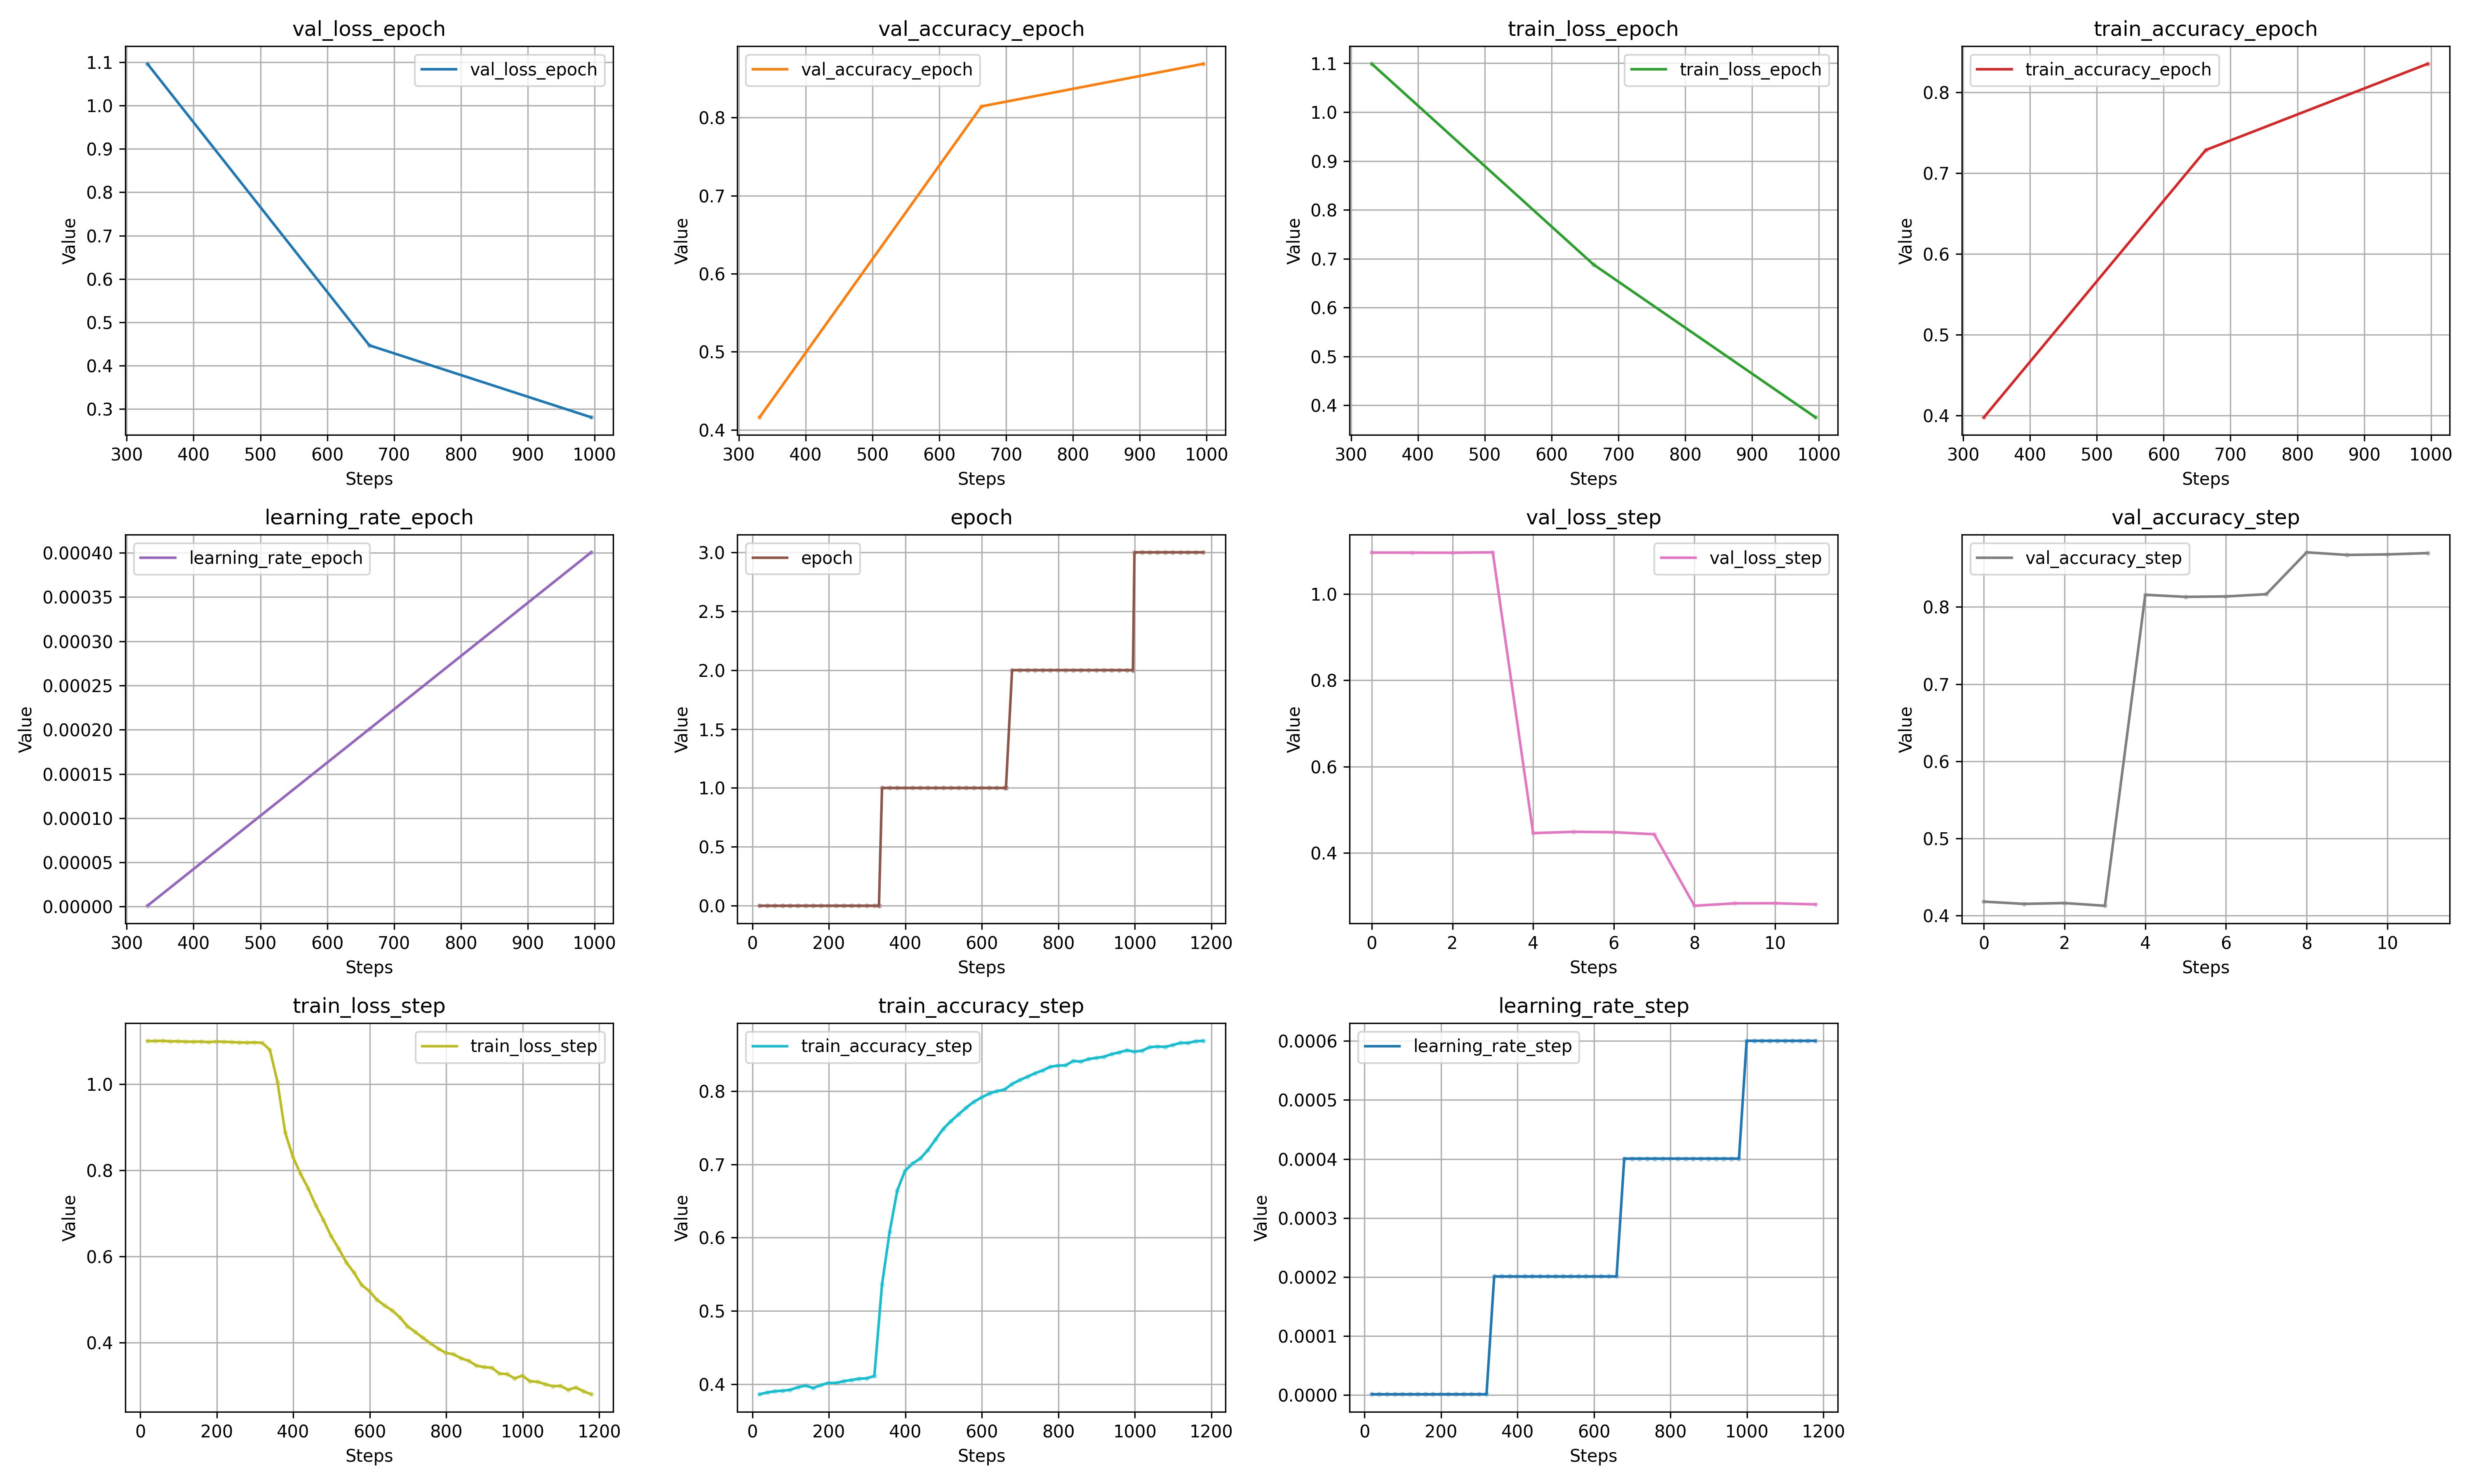
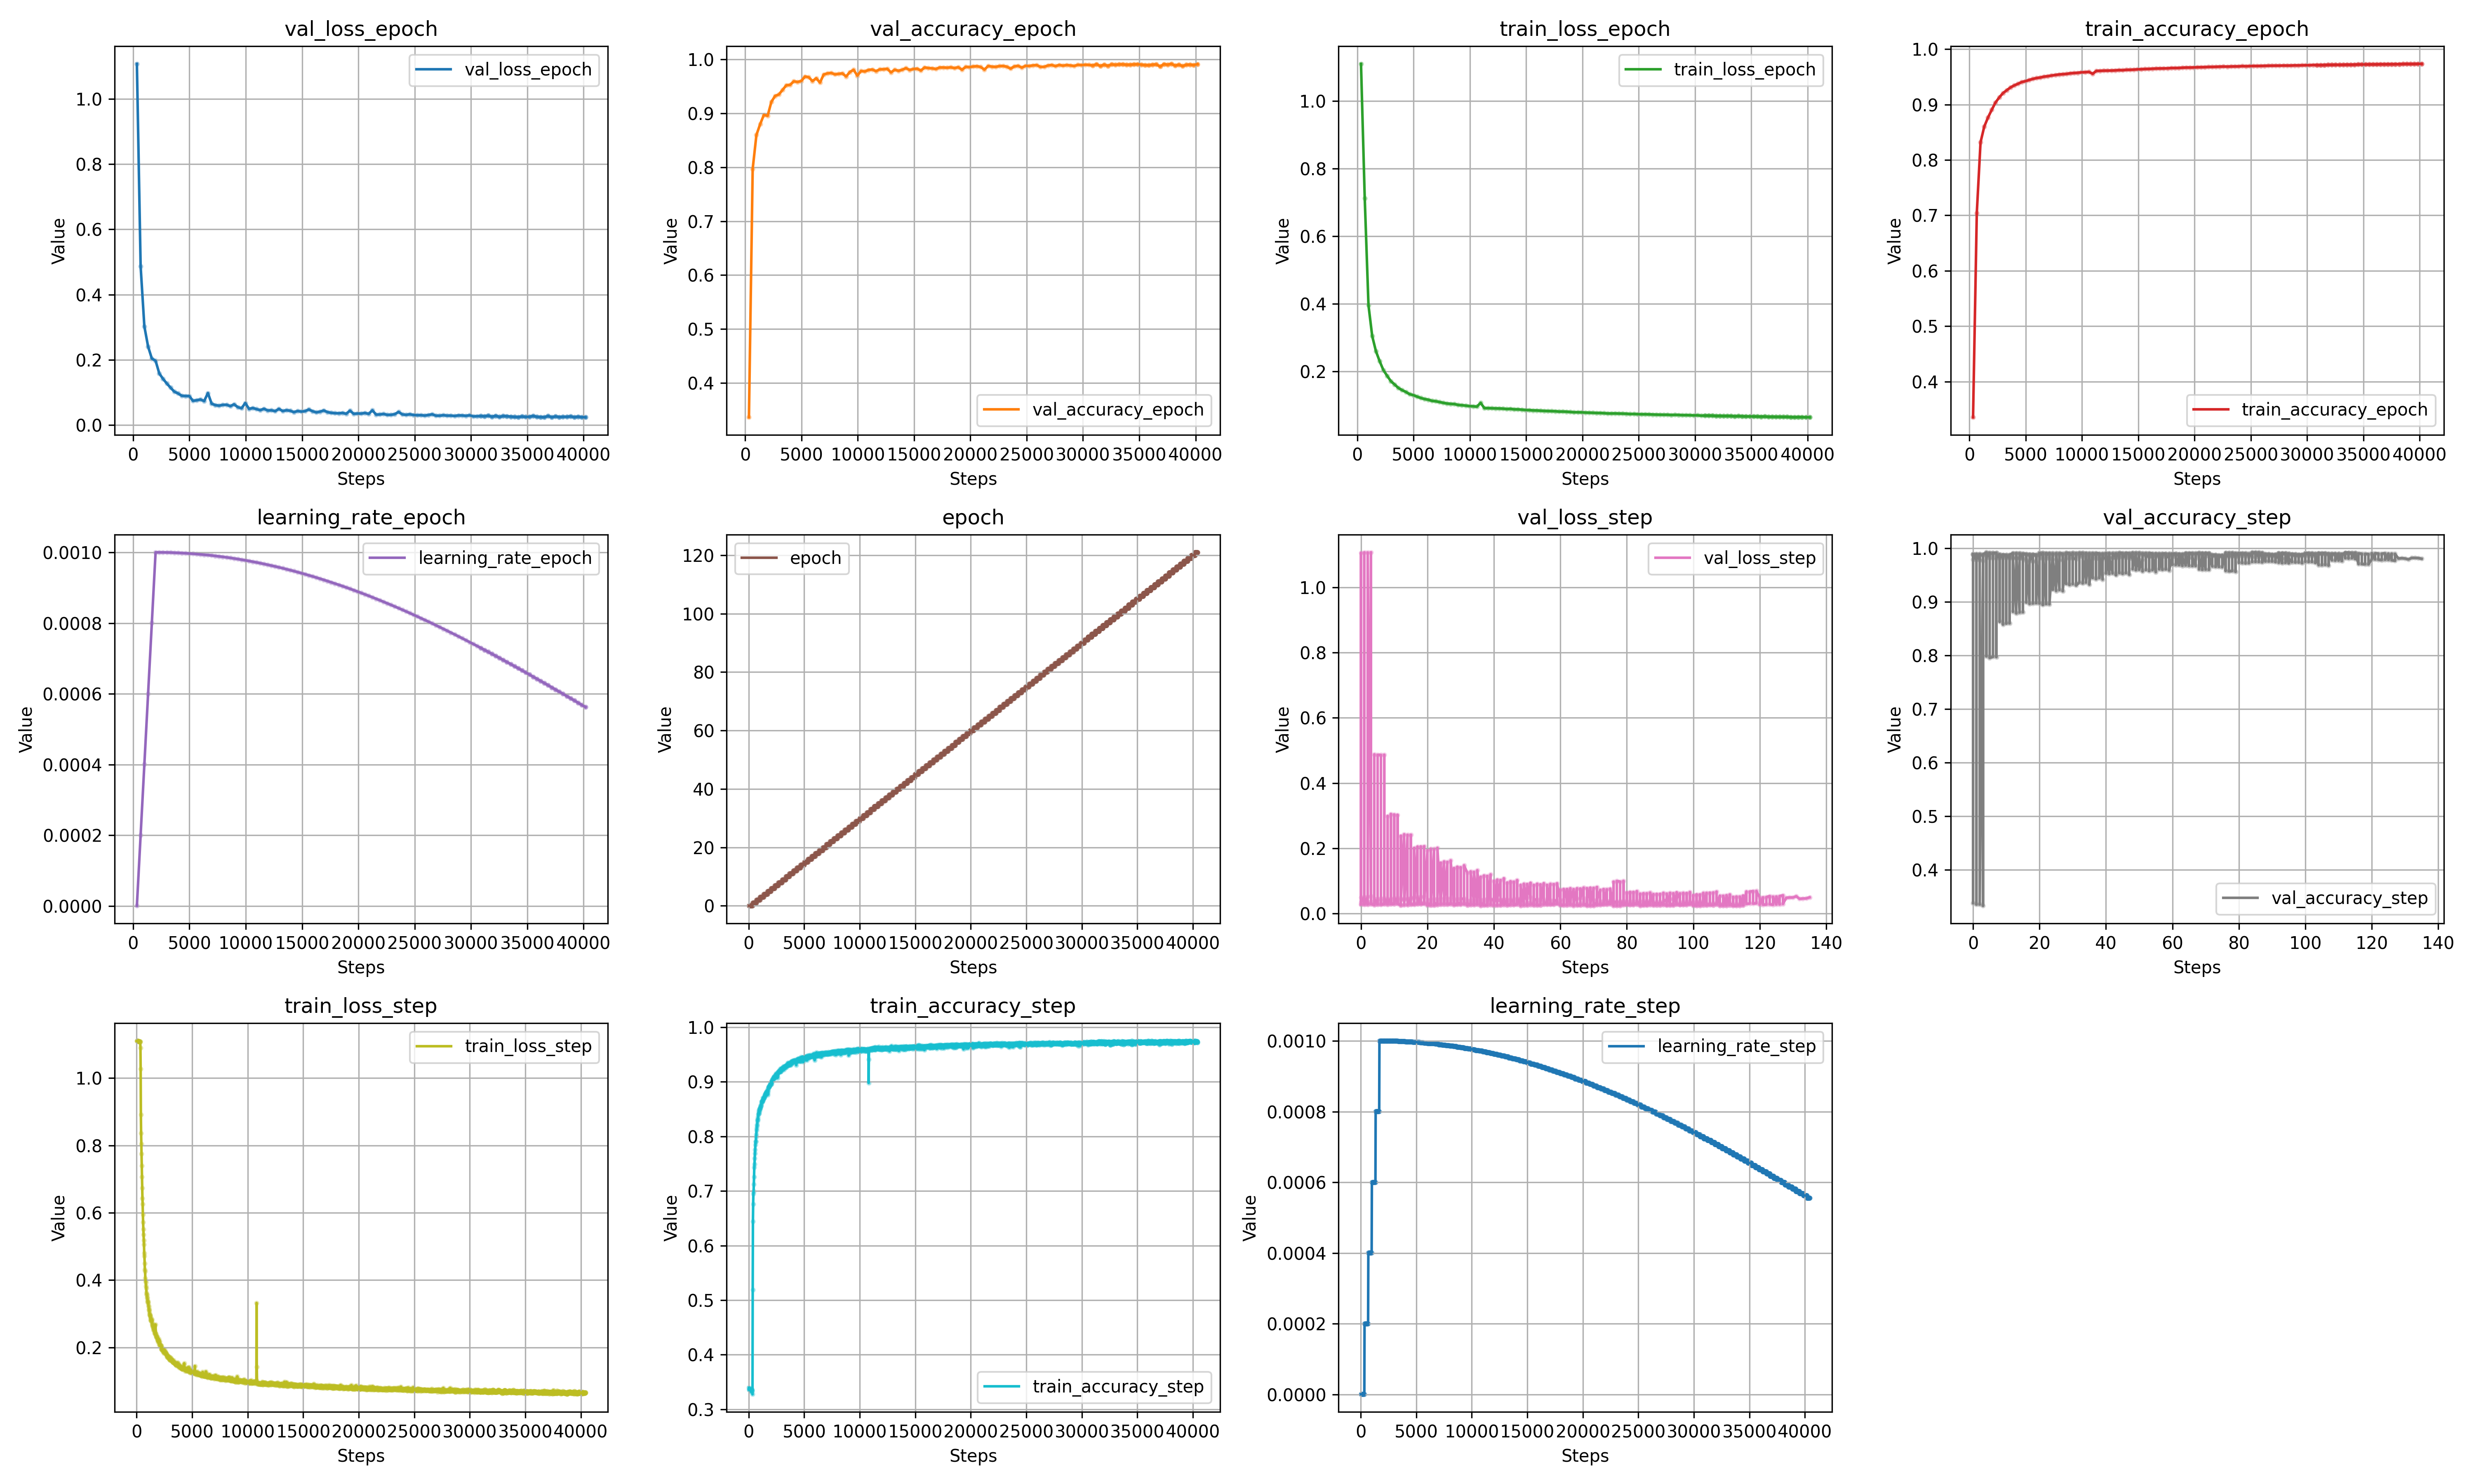
light

diff --git a/scripts/model_training/train_metrics.py b/scripts/model_training/train_metrics.py
@@ -5,13 +5,13 @@ import os
 
 
 # %%
-npz_directory_current=Path('/projects/extern/nhr/nhr_ni/nhr_ni_test/nhr_ni_test_27040/dir.project/xenopus_roi_segmentation/')
-#npz_directory_backup=Path('/projects/extern/nhr/nhr_ni/nhr_ni_test/nhr_ni_test_27040/dir.project/oneat_mitosis_model_adam/backup/')
+npz_directory_current=Path('/projects/extern/nhr/nhr_ni/nhr_ni_test/nhr_ni_test_27040/dir.project/cellfate_model_medium/')
+npz_directory_backup=Path('/projects/extern/nhr/nhr_ni/nhr_ni_test/nhr_ni_test_27040/dir.project/cellfate_model_medium/backup/')
 
 npz_file_current = [npz_directory_current/file for file in os.listdir(npz_directory_current) if file.endswith('.npz')][-1]
-#npz_file_backup = [npz_directory_backup/file for file in os.listdir(npz_directory_backup) if file.endswith('.npz')]
+npz_file_backup = [npz_directory_backup/file for file in os.listdir(npz_directory_backup) if file.endswith('.npz')]
 
-filepaths =  [npz_file_current] #+  [npz_file for npz_file in npz_file_backup] 
+filepaths =  [npz_file_current] +  [npz_file for npz_file in npz_file_backup] 
 
 # %%
 